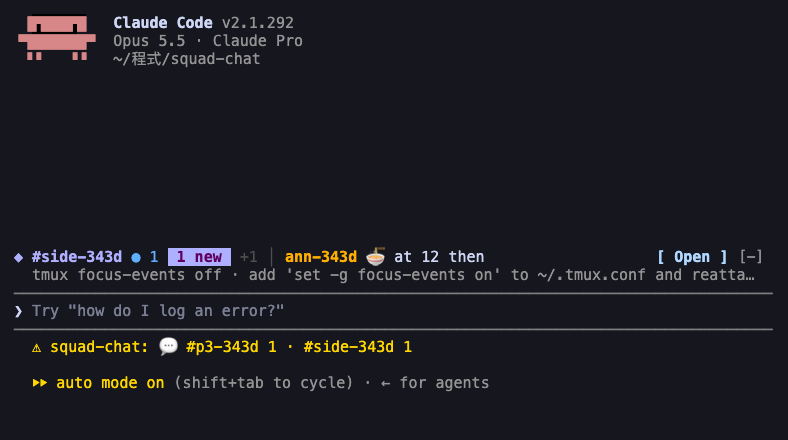
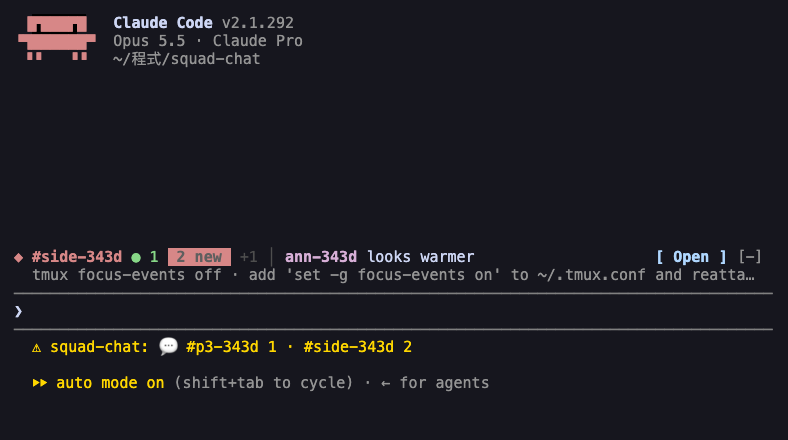
Classic warm palette (v0.2.1)
Coral accent, amber unread badges, leaf-green online and live, sky for
info dots, warm name colors. Accents are fixed hex so a theme that draws
'success' as blue doesn't change them; borders and meta text still follow
the person's theme. Screenshots updated.

diff --git a/docs/PLAN.md b/docs/PLAN.md
@@ -197,7 +197,7 @@ squad-chat/
 
 ## Phase 6 — 聊天 UI 重新設計（v0.2.0）
 參考 glowup 的「圓角卡片＋分頁＋右對齊 meta」質感與業界聊天 UI 慣例（同發送者訊息分組、日期分隔、未讀「new」分隔線、在線點），但用自己的配色與結構：
-- **配色**：單一品牌色紫羅蘭 `#A78BFA`（標題、目前房間分頁、自己的名字、聚焦輸入框、new 線），其餘用使用者主題的 theme key（`success`/`subtle`/`warning`/`inactive`）跟隨深淺主題；每個人的名字依 user id 固定配一個顏色（8 色）。
+- **配色**（v0.2.1 依使用者要求改為 glowup classic 風格的暖色系）：主色珊瑚橘 `#D97757`（標題、目前房間分頁、自己的名字、聚焦輸入框、new 線），琥珀 `#E2B86B`（未讀數），綠 `#6CC070`（在線、live），天藍 `#7FB6E2`；強調色用固定色碼（有些主題把 `success` 畫成藍色），卡片邊框與次要文字仍用主題的 `inactive`/`subtle`；每個人的名字依 user id 固定配一個暖色（8 色）。
 - **Dock**：標題列（◆ squad-chat · 你的名字 · ● live）→ 房間分頁（目前房間實心高亮，其他可點擊、未讀數以品牌色顯示）→ FRIENDS 卡片（n/m online）→ 房間卡片（填滿剩餘高度、訊息貼底；同人 5 分鐘內合併成一組、日期分隔、`new ───` 標出上次讀到的位置）→ 圓角輸入框 → 淡色快捷鍵提示。
 - **Inline**：一行標頭（房間 · 在線的人 · 狀態），最後 5 則訊息以名字欄對齊、同人只顯示一次。
 - **Band**：單行，只有訊息內容會縮短；`N new` 用品牌色底標示，右側 [ Open ]。

diff --git a/README.md b/README.md
@@ -4,7 +4,7 @@ A Claude Code mod: your friends' online status and a group chat in a side pane, 
 
 ![squad-chat docked beside Claude Code](docs/screenshots/pane.png)
 
-> **Status: v0.2.0.** Sign in, rooms, presence and chat work against the hosted Supabase project, in wide and narrow terminals, through network drops and bridge crashes.
+> **Status: v0.2.1.** Sign in, rooms, presence and chat work against the hosted Supabase project, in wide and narrow terminals, through network drops and bridge crashes.
 
 ## Install
 
